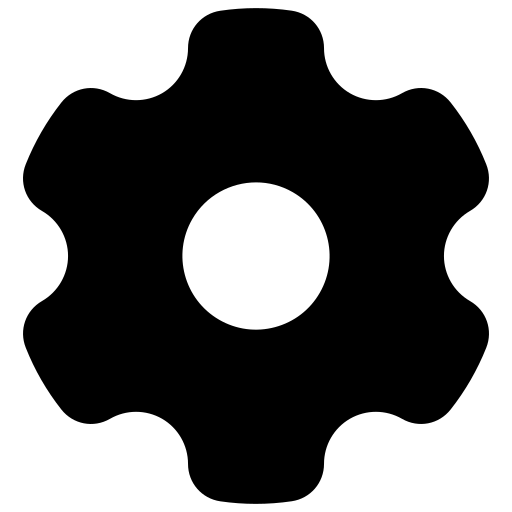
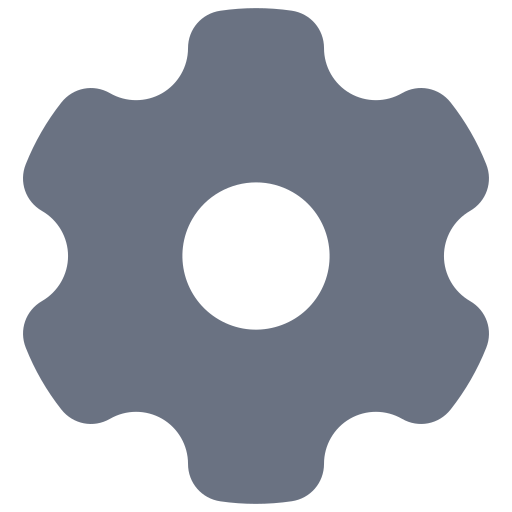
Created option for navigating to settings page. Working on settings page

diff --git a/resources/static/output.css b/resources/static/output.css
@@ -518,12 +518,6 @@
   }
 }
 @layer utilities {
-  .collapse {
-    visibility: collapse;
-  }
-  .relative {
-    position: relative;
-  }
   .container {
     width: 100%;
     @media (width >= 40rem) {
@@ -551,8 +545,8 @@
   .mr-2 {
     margin-right: calc(var(--spacing) * 2);
   }
-  .mr-5 {
-    margin-right: calc(var(--spacing) * 5);
+  .mb-0\.5 {
+    margin-bottom: calc(var(--spacing) * 0.5);
   }
   .block {
     display: block;
@@ -563,15 +557,6 @@
   .hidden {
     display: none;
   }
-  .inline-flex {
-    display: inline-flex;
-  }
-  .list-item {
-    display: list-item;
-  }
-  .table {
-    display: table;
-  }
   .h-5 {
     height: calc(var(--spacing) * 5);
   }
@@ -580,6 +565,9 @@
   }
   .h-screen {
     height: 100vh;
+  }
+  .w-4 {
+    width: calc(var(--spacing) * 4);
   }
   .w-5 {
     width: calc(var(--spacing) * 5);
@@ -596,17 +584,8 @@
   .flex-grow {
     flex-grow: 1;
   }
-  .border-collapse {
-    border-collapse: collapse;
-  }
-  .transform {
-    transform: var(--tw-rotate-x) var(--tw-rotate-y) var(--tw-rotate-z) var(--tw-skew-x) var(--tw-skew-y);
-  }
   .cursor-pointer {
     cursor: pointer;
-  }
-  .resize {
-    resize: both;
   }
   .flex-col {
     flex-direction: column;
@@ -625,6 +604,13 @@
       --tw-space-y-reverse: 0;
       margin-block-start: calc(calc(var(--spacing) * 2) * var(--tw-space-y-reverse));
       margin-block-end: calc(calc(var(--spacing) * 2) * calc(1 - var(--tw-space-y-reverse)));
+    }
+  }
+  .space-x-0\.5 {
+    :where(& > :not(:last-child)) {
+      --tw-space-x-reverse: 0;
+      margin-inline-start: calc(calc(var(--spacing) * 0.5) * var(--tw-space-x-reverse));
+      margin-inline-end: calc(calc(var(--spacing) * 0.5) * calc(1 - var(--tw-space-x-reverse)));
     }
   }
   .space-x-6 {
@@ -647,10 +633,6 @@
   .rounded-sm {
     border-radius: var(--radius-sm);
   }
-  .border {
-    border-style: var(--tw-border-style);
-    border-width: 1px;
-  }
   .bg-blue-700 {
     background-color: var(--color-blue-700);
   }
@@ -659,9 +641,6 @@
   }
   .bg-white {
     background-color: var(--color-white);
-  }
-  .p-2 {
-    padding: calc(var(--spacing) * 2);
   }
   .p-2\.5 {
     padding: calc(var(--spacing) * 2.5);
@@ -717,16 +696,9 @@
   .text-white {
     color: var(--color-white);
   }
-  .underline {
-    text-decoration-line: underline;
-  }
   .shadow-md {
     --tw-shadow: 0 4px 6px -1px var(--tw-shadow-color, rgb(0 0 0 / 0.1)), 0 2px 4px -2px var(--tw-shadow-color, rgb(0 0 0 / 0.1));
     box-shadow: var(--tw-inset-shadow), var(--tw-inset-ring-shadow), var(--tw-ring-offset-shadow), var(--tw-ring-shadow), var(--tw-shadow);
-  }
-  .outline {
-    outline-style: var(--tw-outline-style);
-    outline-width: 1px;
   }
   .transition-all {
     transition-property: all;
@@ -789,16 +761,6 @@
   }
   .md\:hidden {
     @media (width >= 48rem) {
-      display: none;
-    }
-  }
-  .dark\:block {
-    &:where(.dark, .dark *) {
-      display: block;
-    }
-  }
-  .dark\:hidden {
-    &:where(.dark, .dark *) {
       display: none;
     }
   }
@@ -874,31 +836,6 @@
     animation-timing-function: cubic-bezier(0, 0, 0.2, 1);
   }
 }
-@property --tw-rotate-x {
-  syntax: "*";
-  inherits: false;
-  initial-value: rotateX(0);
-}
-@property --tw-rotate-y {
-  syntax: "*";
-  inherits: false;
-  initial-value: rotateY(0);
-}
-@property --tw-rotate-z {
-  syntax: "*";
-  inherits: false;
-  initial-value: rotateZ(0);
-}
-@property --tw-skew-x {
-  syntax: "*";
-  inherits: false;
-  initial-value: skewX(0);
-}
-@property --tw-skew-y {
-  syntax: "*";
-  inherits: false;
-  initial-value: skewY(0);
-}
 @property --tw-space-y-reverse {
   syntax: "*";
   inherits: false;
@@ -908,11 +845,6 @@
   syntax: "*";
   inherits: false;
   initial-value: 0;
-}
-@property --tw-border-style {
-  syntax: "*";
-  inherits: false;
-  initial-value: solid;
 }
 @property --tw-font-weight {
   syntax: "*";
@@ -972,11 +904,6 @@
   syntax: "*";
   inherits: false;
   initial-value: 0 0 #0000;
-}
-@property --tw-outline-style {
-  syntax: "*";
-  inherits: false;
-  initial-value: solid;
 }
 @property --tw-ease {
   syntax: "*";

diff --git a/index.html b/index.html
@@ -9,7 +9,7 @@
     <script src="/scripts/dark-light-toggle.js"></script>
 
     <link rel="stylesheet" href="/resources/static/output.css" />
-    <link rel="shortcut icon" href="/resources/assets/sudoku_favicon.ico" type="image/x-icon" />
+    <link rel="shortcut icon" href="/public/sudoku_favicon.ico" type="image/x-icon">
 
     <style>
         .bg-dots-pattern {
@@ -62,13 +62,14 @@
                 </div>
             </div>
             
-            <div class="justify-between">
+            <div class="justify-between space-x-0.5">
                 <button id="theme-toggle" type="button" class="text-gray-500 dark:text-gray-400 hover:bg-gray-100 dark:hover:bg-gray-700 focus:outline-none focus:ring-4 focus:ring-gray-200 dark:focus:ring-gray-700 rounded-lg text-sm p-2.5 cursor-pointer">
                     <svg id="theme-toggle-dark-icon" class="hidden w-5 h-5" fill="currentColor" viewBox="0 0 20 20" xmlns="http://www.w3.org/2000/svg"><path d="M17.293 13.293A8 8 0 016.707 2.707a8.001 8.001 0 1010.586 10.586z"></path></svg>
                     <svg id="theme-toggle-light-icon" class="hidden w-5 h-5" fill="currentColor" viewBox="0 0 20 20" xmlns="http://www.w3.org/2000/svg"><path d="M10 2a1 1 0 011 1v1a1 1 0 11-2 0V3a1 1 0 011-1zm4 8a4 4 0 11-8 0 4 4 0 018 0zm-.464 4.95l.707.707a1 1 0 001.414-1.414l-.707-.707a1 1 0 00-1.414 1.414zm2.12-10.607a1 1 0 010 1.414l-.706.707a1 1 0 11-1.414-1.414l.707-.707a1 1 0 011.414 0zM17 11a1 1 0 100-2h-1a1 1 0 100 2h1zm-7 4a1 1 0 011 1v1a1 1 0 11-2 0v-1a1 1 0 011-1zM5.05 6.464A1 1 0 106.465 5.05l-.708-.707a1 1 0 00-1.414 1.414l.707.707zm1.414 8.486l-.707.707a1 1 0 01-1.414-1.414l.707-.707a1 1 0 011.414 1.414zM4 11a1 1 0 100-2H3a1 1 0 000 2h1z" fill-rule="evenodd" clip-rule="evenodd"></path></svg>
                 </button>
-                <button id="goto-settings" type="button">
-
+                <button id="goto-pg_settings" type="button" class="cursor-pointer focus:outline-none focus:ring-4 focus:ring-gray-200 dark:focus:ring-gray-700 rounded-lg p-2.5 hover:bg-gray-100 dark:hover:bg-gray-700">
+                    <img src="/resources/assets/settings_dark_m.png" alt="Settings" class="w-4 mb-0.5 hidden" id="settings_dark_m" />
+                    <img src="/resources/assets/settings_light_m.png" alt="Settings" class="w-4 mb-0.5 hidden" id="settings_light_m" />
                 </button>         
             </div>
 
@@ -96,9 +97,10 @@
             mobileMenu.classList.toggle("hidden");
         });
     </script>
-
+    
     <script src="/scripts/page-routing.js" type="module"></script>
     <script src="/scripts/dark-light-toggle.js"></script>
+    <script src="/scripts/page-functionality.js"></script>
 </body>
 
 </html>

diff --git a/scripts/page-routing.js b/scripts/page-routing.js
@@ -1,8 +1,11 @@
-import page_router from "./page-routing-data.json" assert { type: "json" };
+import webpg_router from "./page-routing-data.json" assert { type: "json" };
 
 document.getElementById("goto-pg_solve").addEventListener('click', function() {
-    window.location.href = page_router["solve"];
+    window.location.href = webpg_router["solve"];
 })
 document.getElementById("goto-pg_generate").addEventListener('click', function() {
-    window.location.href = page_router["generate"];
+    window.location.href = webpg_router["generate"];
 })
+document.getElementById("goto-pg_settings").addEventListener('click', function() {
+    window.location.href = webpg_router["settings"];
+});

diff --git a/scripts/dark-light-toggle.js b/scripts/dark-light-toggle.js
@@ -6,10 +6,14 @@
 
 var themeToggleDarkIcon = document.getElementById('theme-toggle-dark-icon');
 var themeToggleLightIcon = document.getElementById('theme-toggle-light-icon');
+var settingsLightMode = document.getElementById('settings_light_m');
+var settingsDarkMode = document.getElementById('settings_dark_m');
 
 if (localStorage.getItem('color-theme') === 'dark' || (!('color-theme' in localStorage) && window.matchMedia('(prefers-color-scheme: dark)').matches)) {
+    settingsDarkMode.classList.remove('hidden');
     themeToggleLightIcon.classList.remove('hidden');
 } else {
+    settingsLightMode.classList.remove('hidden');
     themeToggleDarkIcon.classList.remove('hidden');
 }
 

diff --git a/generate/index.html b/generate/index.html
@@ -3,10 +3,10 @@
 <head>
     <meta charset="UTF-8">
     <meta name="viewport" content="width=device-width, initial-scale=1.0">
-    <title>Sudoku Board Generator</title>
+    <title>Sudoku AI | Sudoku Board Generator</title>
 
     <link rel="stylesheet" href="/dist/static/output.css">
-    <link rel="shortcut icon" href="/resources/assets/sudoku_favicon.ico" type="image/x-icon">
+    <link rel="shortcut icon" href="/public/sudoku_favicon.ico" type="image/x-icon">
 </head>
 <body>
     <p>Generate Sudoku Board</p>

diff --git a/solve/index.html b/solve/index.html
@@ -3,10 +3,10 @@
 <head>
     <meta charset="UTF-8">
     <meta name="viewport" content="width=device-width, initial-scale=1.0">
-    <title>Sudoku Solver</title>
+    <title>Sudoku AI | Solve Sudoku</title>
 
     <link rel="stylesheet" href="/dist/static/output.css">
-    <link rel="shortcut icon" href="/resources/assets/sudoku_favicon.ico" type="image/x-icon">
+    <link rel="shortcut icon" href="/public/sudoku_favicon.ico" type="image/x-icon">
 </head>
 <body>
     <p>Solve sudoku</p>

diff --git a/settings/index.html b/settings/index.html
@@ -3,7 +3,9 @@
 <head>
     <meta charset="UTF-8">
     <meta name="viewport" content="width=device-width, initial-scale=1.0">
-    <title>Sudoku AI | About</title>
+    <title>Sudoku AI | Settings</title>
+
+    <link rel="shortcut icon" href="/public/sudoku_favicon.ico" type="image/x-icon">
 </head>
 <body>
     
